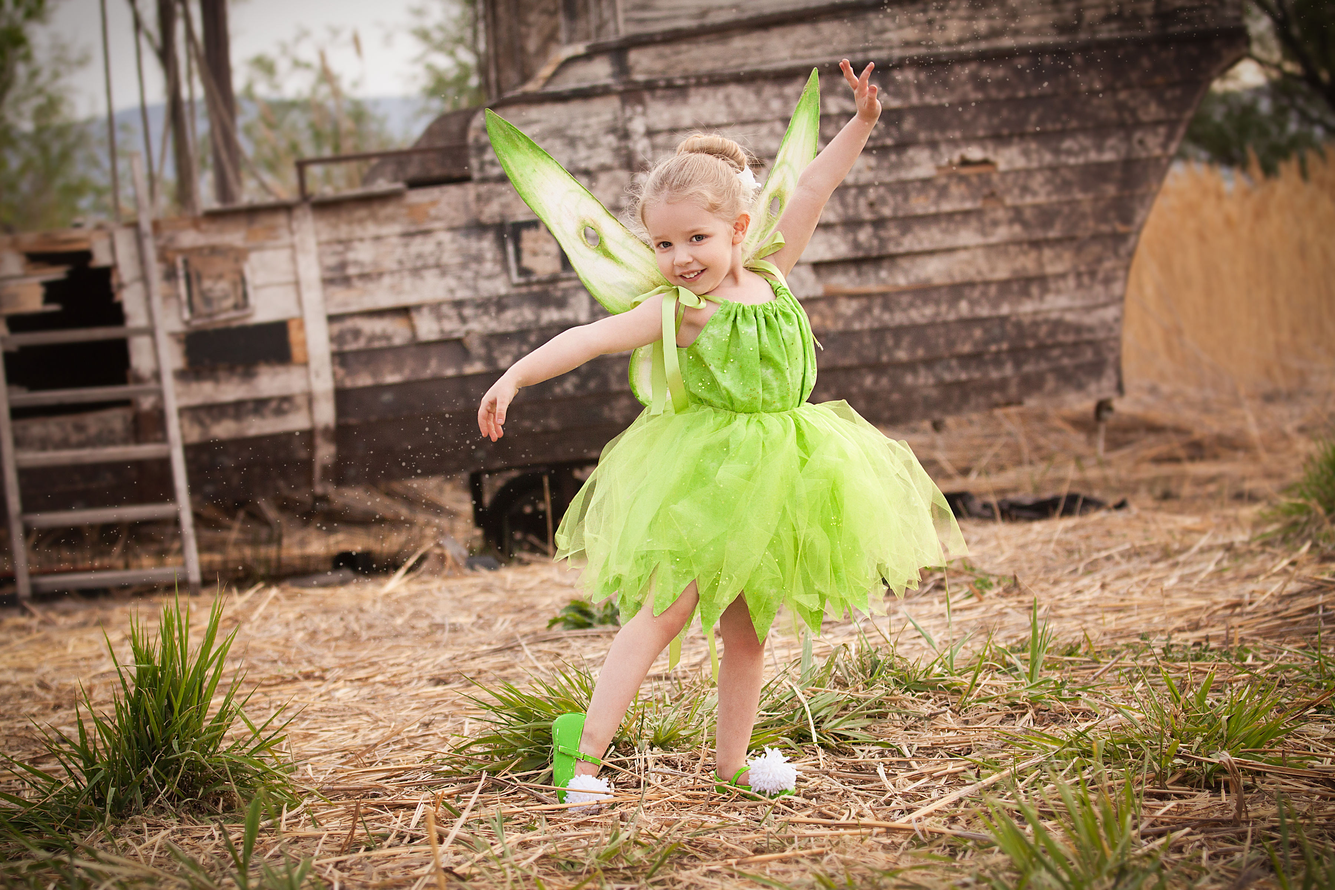
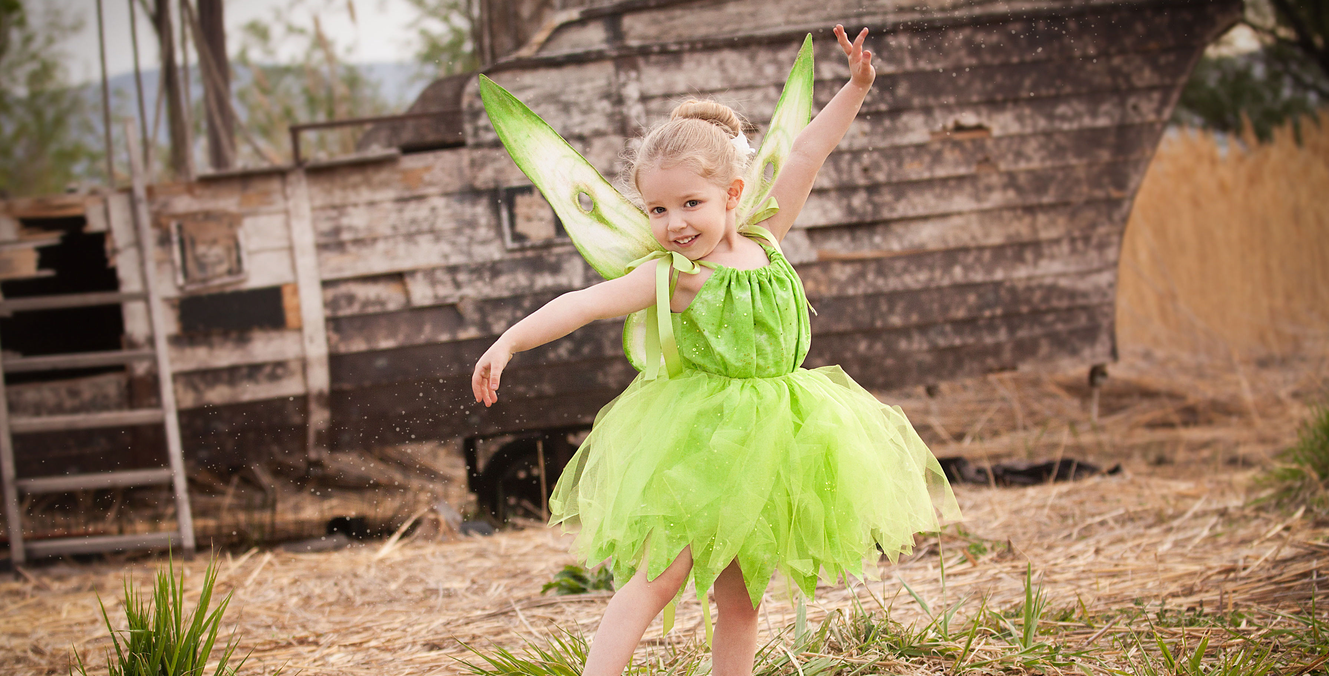
Fixed about photo styling

diff --git a/src/style/media-querys.scss b/src/style/media-querys.scss
@@ -89,22 +89,19 @@
   }
 
   .about-page-wrapper {
-    img {
-      width: 85% !important;
-      height: 80% !important;
+    grid-template-columns: 1fr 1fr !important;
+    height: calc(100vh - 60px);
+
+    .image-wrapper {
+      height: 100% !important;
+    }
+    p {
+      text-align: left !important;
     }
   }
 }
 
 @media (min-width: 1050px) {
-  .about-page-wrapper {
-    grid-template-columns: 1fr 1fr !important;
-    height: calc(100vh - 60px);
-
-    p {
-      text-align: left !important;
-    }
-  }
 }
 
 @media (max-width: 768px) and (min-width: 48em) {

diff --git a/src/style/about.scss b/src/style/about.scss
@@ -2,14 +2,12 @@
   display: grid;
   grid-template-columns: 1fr;
   .image-wrapper {
-    display: flex;
-    justify-content: center;
-    align-items: center;
-
-    img {
-      width: 350px;
-      height: 300px;
-    }
+    background-image: url("../../static/images/about-photo.jpg");
+    background-repeat: no-repeat;
+    background-size: cover;
+    background-position: center;
+    height: 100vh;
+    width: 100%;
   }
 
   .text-wrapper {

diff --git a/src/components/pages/about.js b/src/components/pages/about.js
@@ -10,9 +10,7 @@ export default function() {
   return (
     <div className="page-content">
       <div className="about-page-wrapper">
-        <div className="image-wrapper">
-          <img src={ProfilePicture} />
-        </div>
+        <div className="image-wrapper" />
         <div className="text-wrapper">
           <p>
             Lorem ipsum dolor, sit amet consectetur adipisicing elit. Enim
